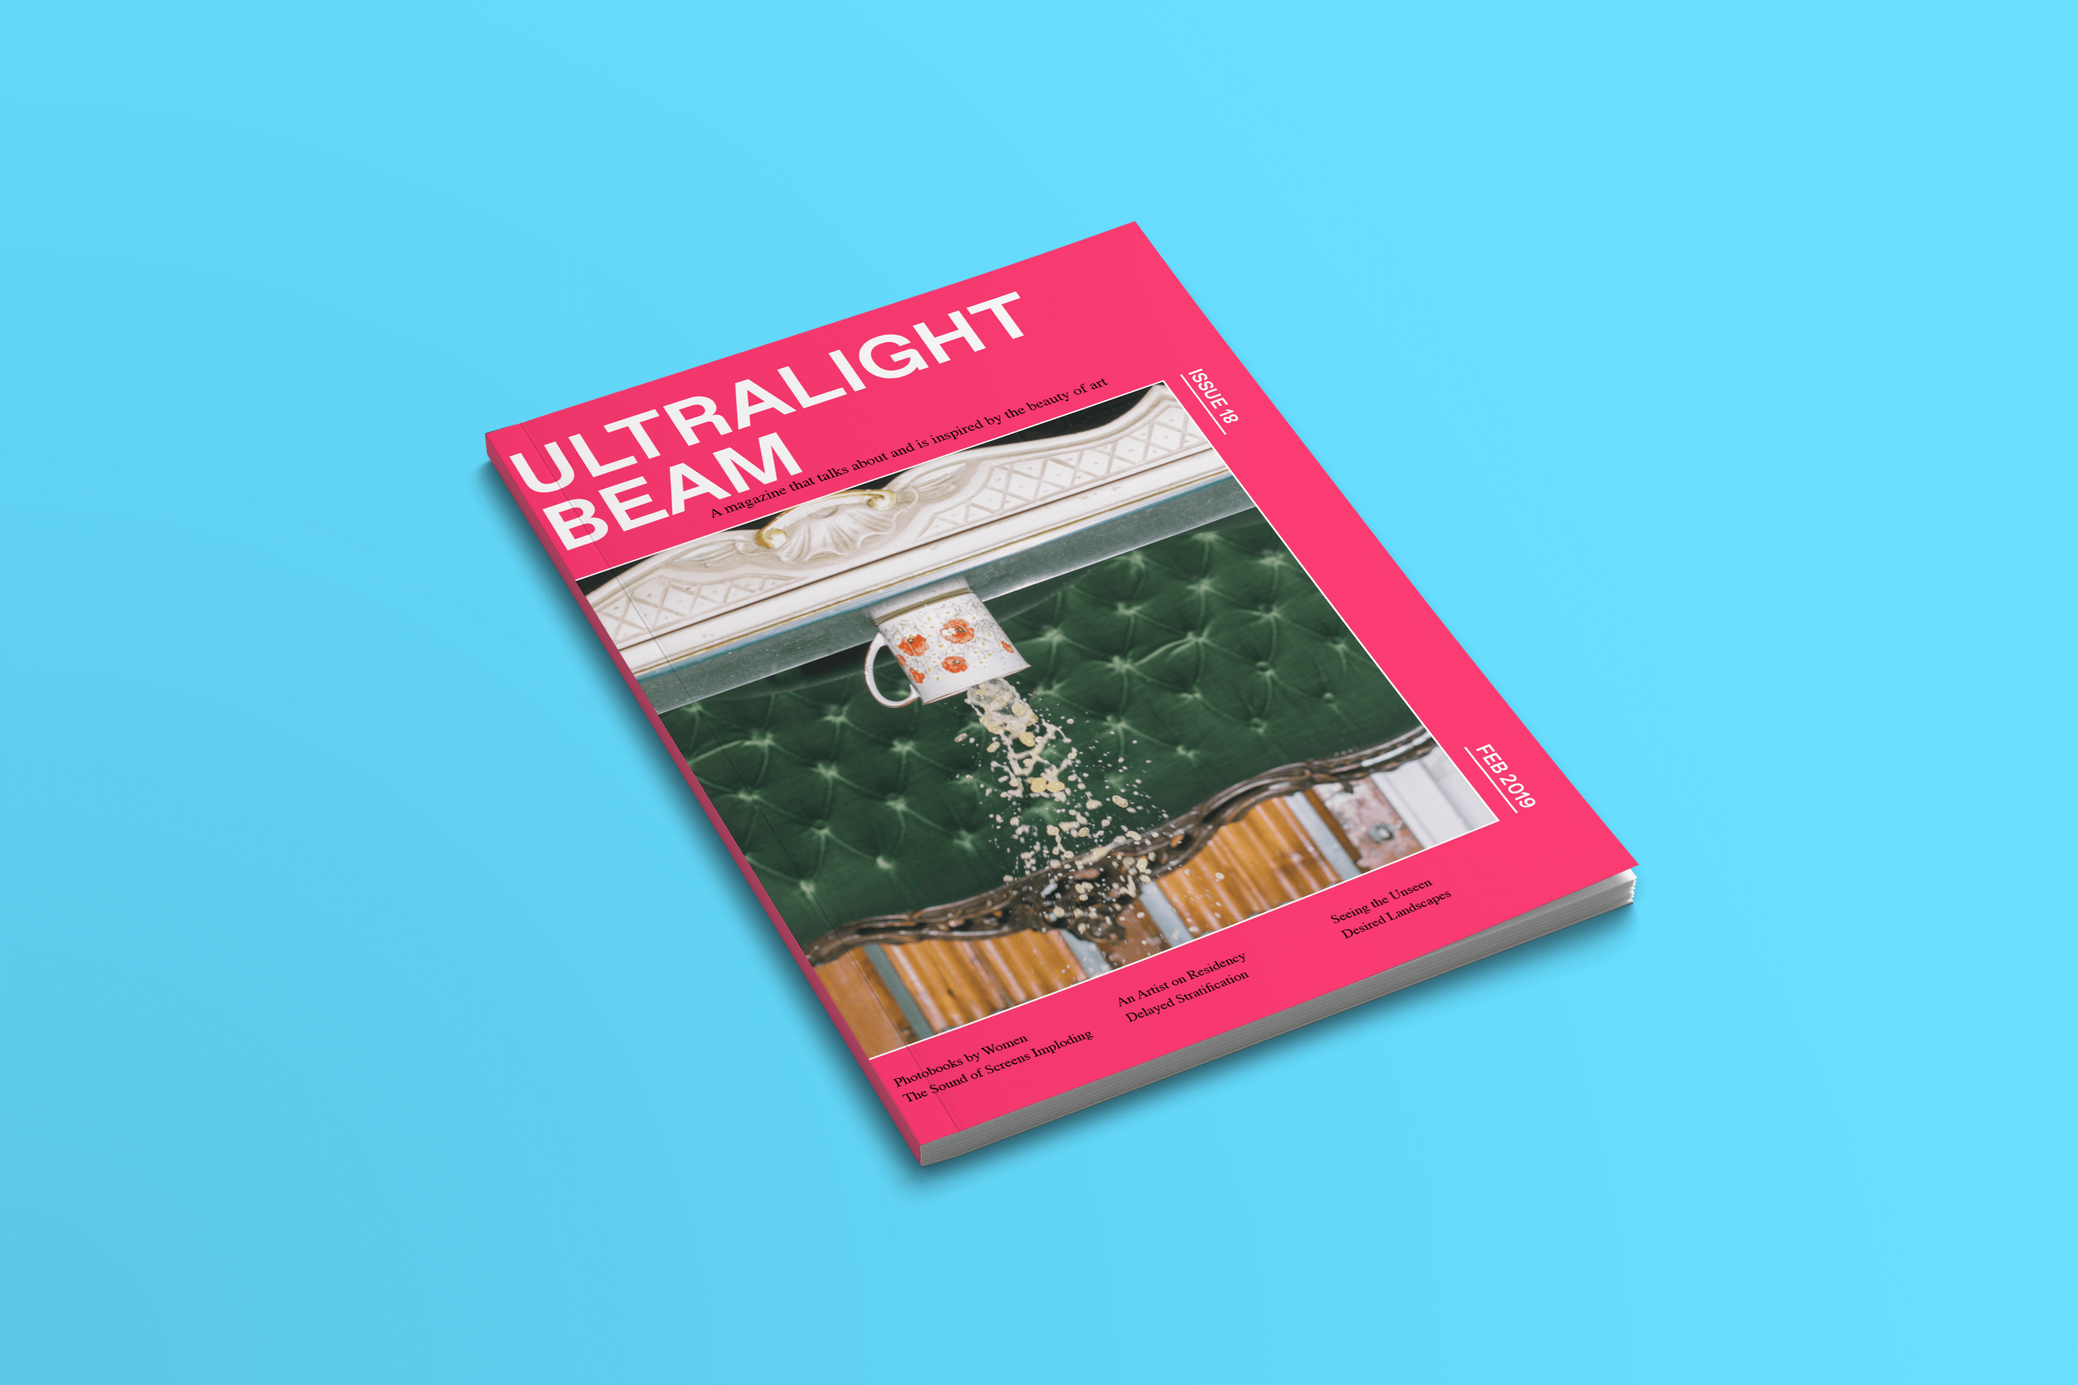
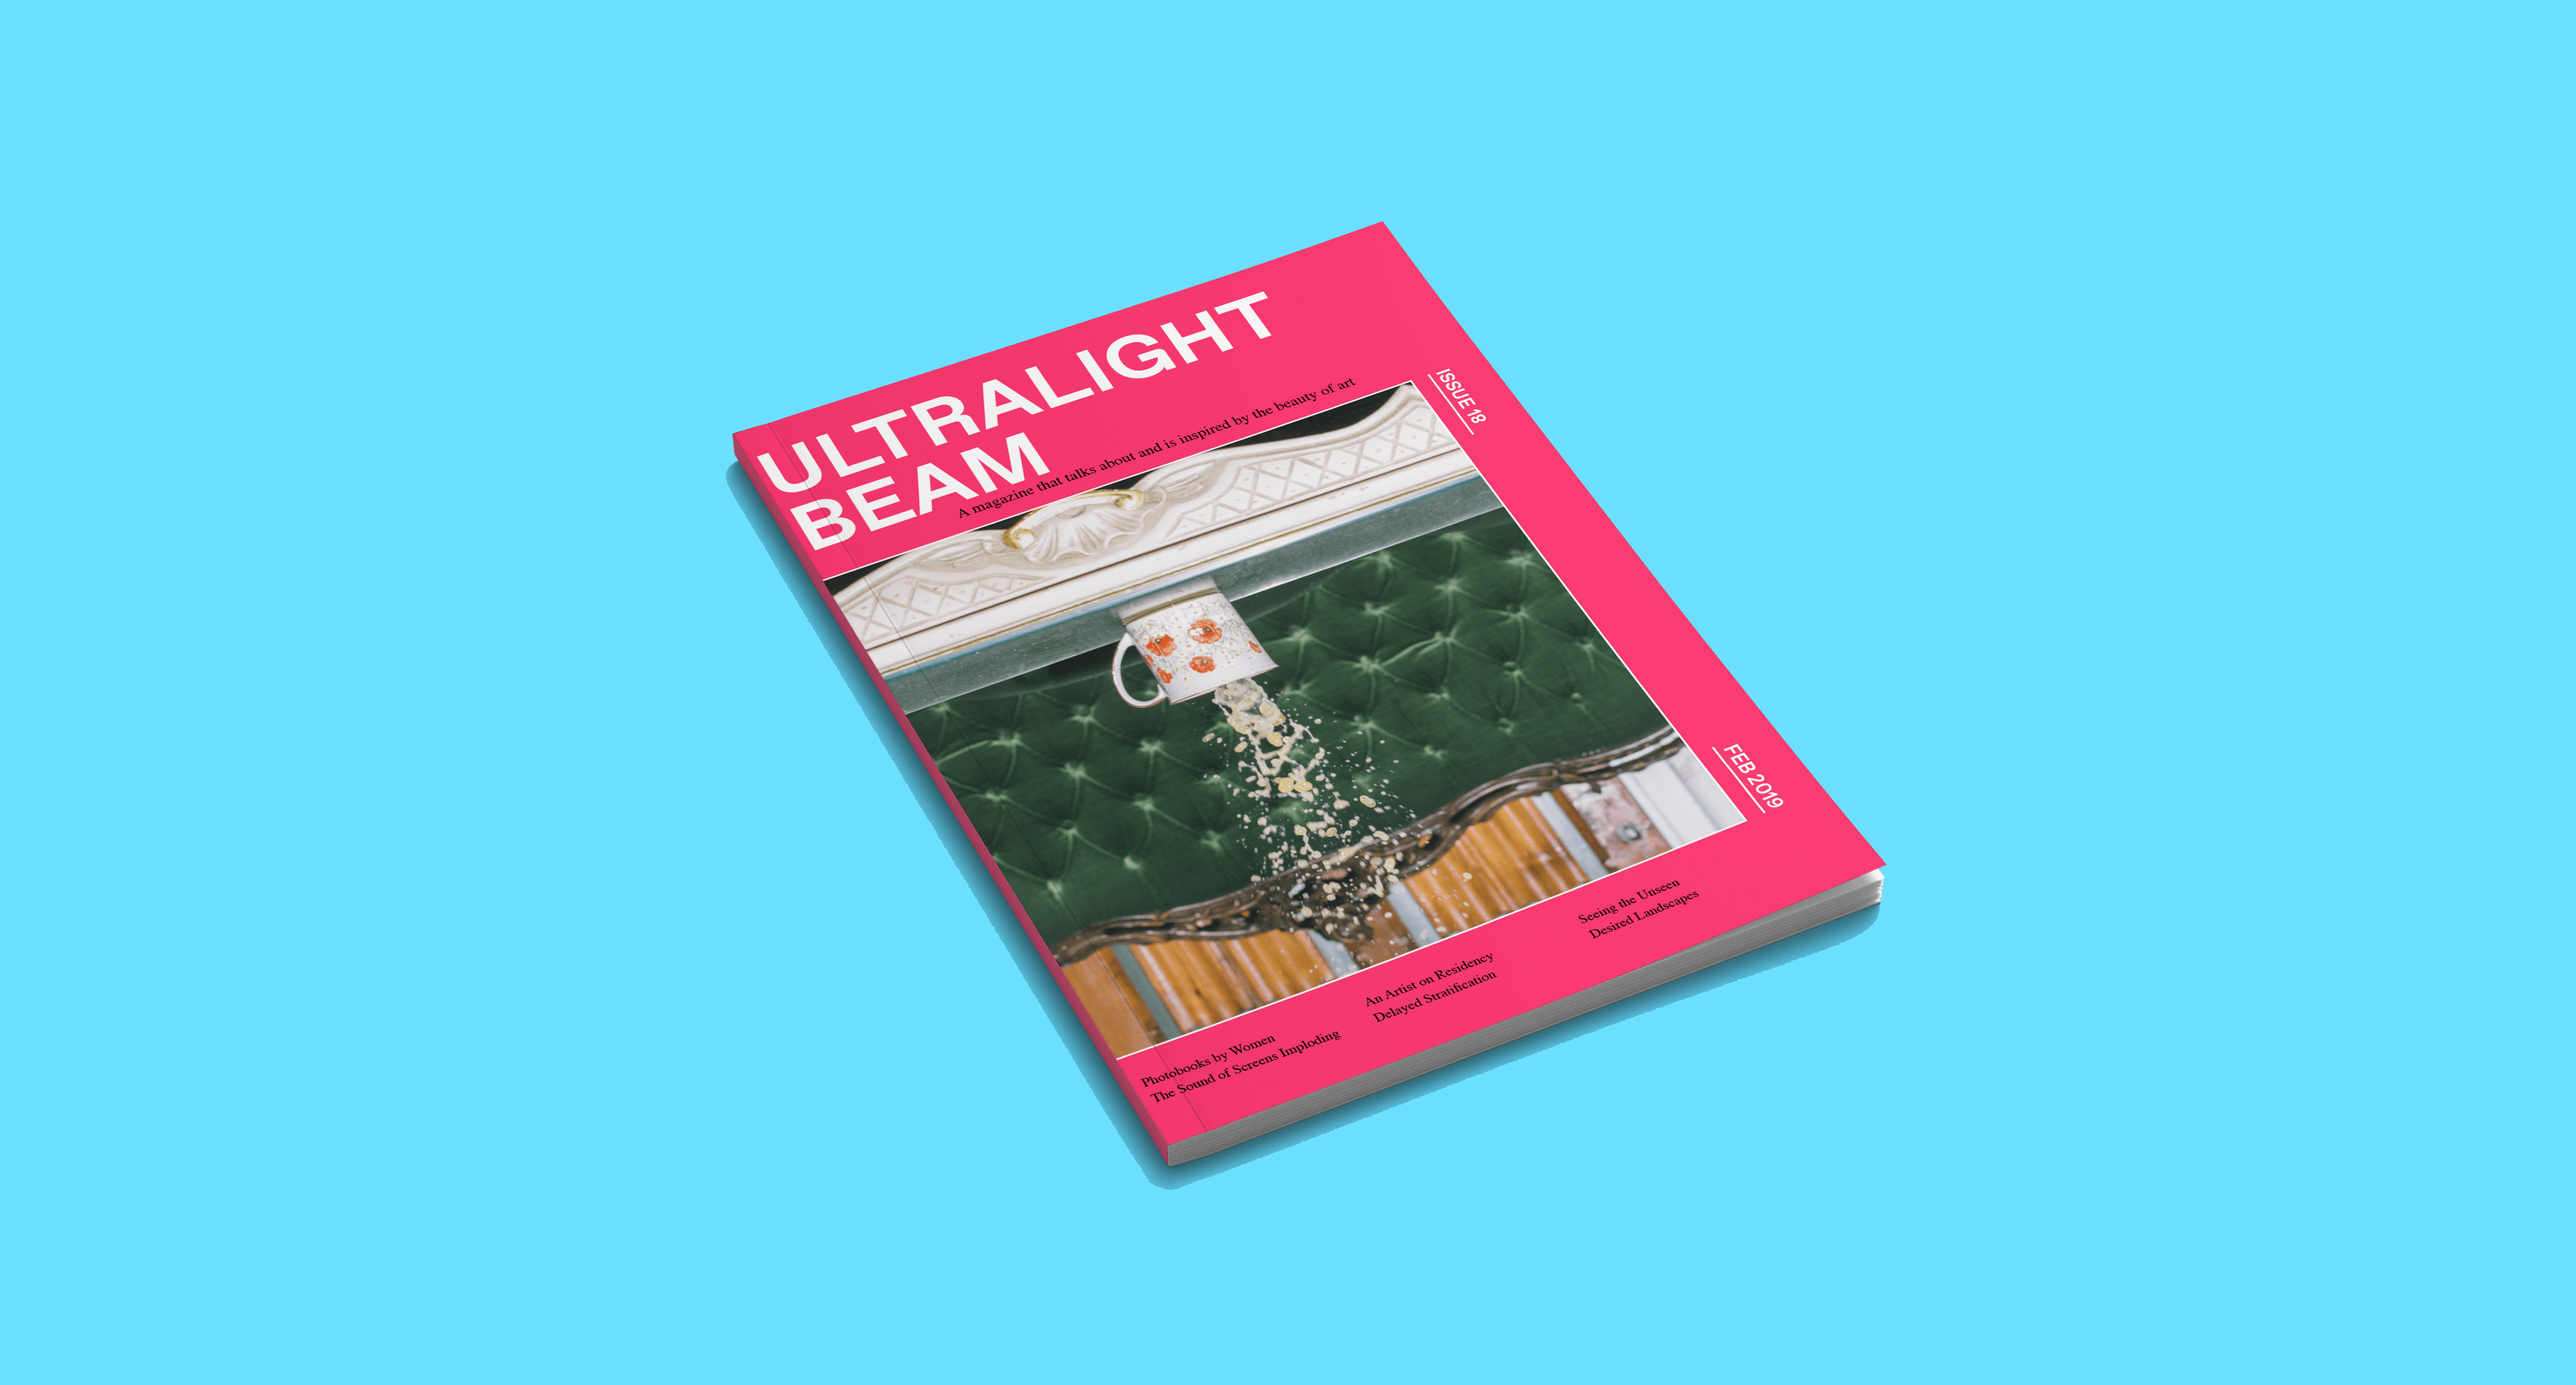
finished-homepage

Changed region(s): [[0.217, 0.155, 0.806, 0.868], [0.0, 0.899, 0.093, 1.0]]

diff --git a/home.html b/home.html
@@ -26,7 +26,7 @@
       </p>
       <article class="project project-fendi">
         <div class="shadow-container">
-          <img class="project-image project-image-fendi" src="images/Fendi/fendi-mockup.png" alt="Fendi app interface in an Ipad on a yellow background" width="60%" height="auto">
+          <img class="project-image project-image-fendi" src="images/Fendi/Fendi-transparent.png" alt="Fendi app interface in an Ipad on a yellow background" width="60%" height="auto">
         </div>
         <div class="project-description">
           <h2 class="project-name project-name-fendi">Fendi - Made to Order</h2>
@@ -35,7 +35,7 @@
       </article>
       <article class="project project-thefork">
         <div class="shadow-container">
-          <img class="project-image project-image-thefork" src="images/TheFork/thefork-line.png" alt="The Fork app interface in an Iphone on a purple background" width="60%" height="auto">
+          <img class="project-image project-image-thefork" src="images/TheFork/TheFork-transparent.png" alt="The Fork app interface in an Iphone on a purple background" width="60%" height="auto">
         </div>
         <div class="project-description">
           <h2 class="project-name project-name-thefork">The Fork</h2>
@@ -44,7 +44,7 @@
       </article>
       <article class="project project-ultralight">
         <div class="shadow-container shadow-container-ultra">
-          <img class="project-image project-image-ultralight" src="images/Ultralight/ultralight-beam.png" alt="a magazine cover with an image of upside down cup of coffee, and the title Ultralight Beam" width="60%" height="auto">
+          <img class="project-image project-image-ultralight" src="images/Ultralight/ultralight.png" alt="a magazine cover with an image of upside down cup of coffee, and the title Ultralight Beam" width="60%" height="auto">
         </div>
         <div class="project-description">
           <h2 class="project-name project-name-ultralight">Ultralight Beam</h2>
@@ -53,7 +53,7 @@
       </article>
       <article class="project project-hereyes">
         <div class="shadow-container">
-          <img class="project-image project-image-hereyes" src="images/ThroughHerEyes/through-display.png" alt="an instagram interface" width="60%" height="auto">
+          <img class="project-image project-image-hereyes" src="images/ThroughHerEyes/Through-transparent.png" alt="an instagram interface" width="60%" height="auto">
         </div>
         <div class="project-description">
           <h2 class="project-name project-name-hereyes">Through her eyes</h2>
@@ -82,7 +82,7 @@
     </div>
     <div class="footer-next-page">
       <a href="#">About me</a>
-      <img class="next-page-arrow" src="images/arrow-bigger.png" alt="black arrow" width="10px">
+      <img class="next-page-arrow" src="images/arrow.png" alt="black arrow" width="15px">
     </div>
     <!-- <div class="footer-to-top">
       <a href="#top">Back to top</a>

diff --git a/style2.css b/style2.css
@@ -78,7 +78,7 @@ h2 {
   overflow-y: scroll;
   scroll-snap-type: y mandatory;
 
-  background: linear-gradient(140deg, rgba(9,9,121,1) -9%, rgba(255,235,169,1) 0%, rgba(255,208,197,1) 15%, rgba(253,234,255,1) 28%, rgba(244,236,255,1) 31%, rgba(255,255,255,1) 46%, rgba(255,255,255,1) 49%, rgba(198,246,255,1) 71%, rgba(196,255,241,1) 76%, rgba(192,255,238,1) 95%, rgba(139,255,208,1) 100%);
+  background: radial-gradient(circle, rgba(255,255,255,1) 0%, rgba(255,235,169,1) 0%, rgba(255,255,255,1) 0%, rgba(255,208,197,1) 0%, rgba(253,234,255,1) 26%, rgba(244,236,255,1) 41%, rgba(198,246,255,1) 60%, rgba(196,255,241,1) 77%, rgba(192,255,238,1) 95%, rgba(139,255,208,1) 100%);
 }
 
 /* test */
@@ -211,7 +211,7 @@ h2 {
   position: relative;
   align-self: center;
   width: 60vw;
-  height: 70vh;
+  max-height: 70vh;
   overflow: hidden;
 }
 
